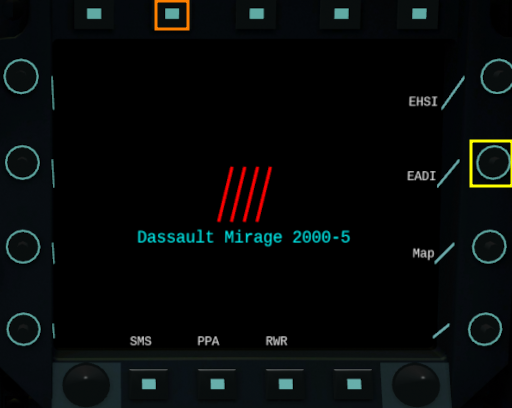
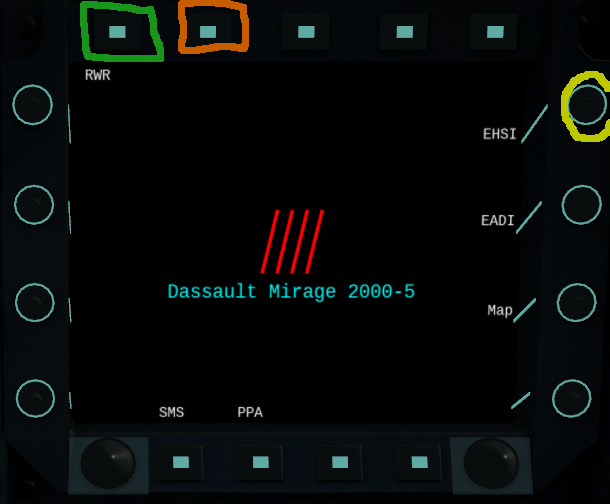
* Make RWR screen available always from top left MFD button * Publish newest version of docs

diff --git a/manual_rst/displays.rst b/manual_rst/displays.rst
@@ -179,11 +179,13 @@ You can use ``Key: Home`` to get to the next page on the left MFD and ``Key: END
 
 To change back to the hub page, use the second button from left (amber frame) on the button row at the top of the MFD. The text below the button shows the current page name.
 
+To go directly to the RWR page, use the first button from left (green frame) on the button row at the top of the MFD.
+
 Use the mouse wheel to push the toggles (yellow frame) on the left and right side of the MFD up and down. Only those toggles work, which have a text associated on the screen. Alternatively, use left-click to push the toggle up and right-click to push the toggle down.
 
 You can focus the view with  ``Key: n`` to better see the left MFD respectively ``Key: N`` to better see the right MFD. Use ``Key: ctrl-n`` to go back to the default view.
 
-NB: the display pages on the left and right MFD are the same.
+NB: the available pages on the left and right MFD are the same.
 
 
 Electronic Horizontal Situation Indicator (EHSI)
